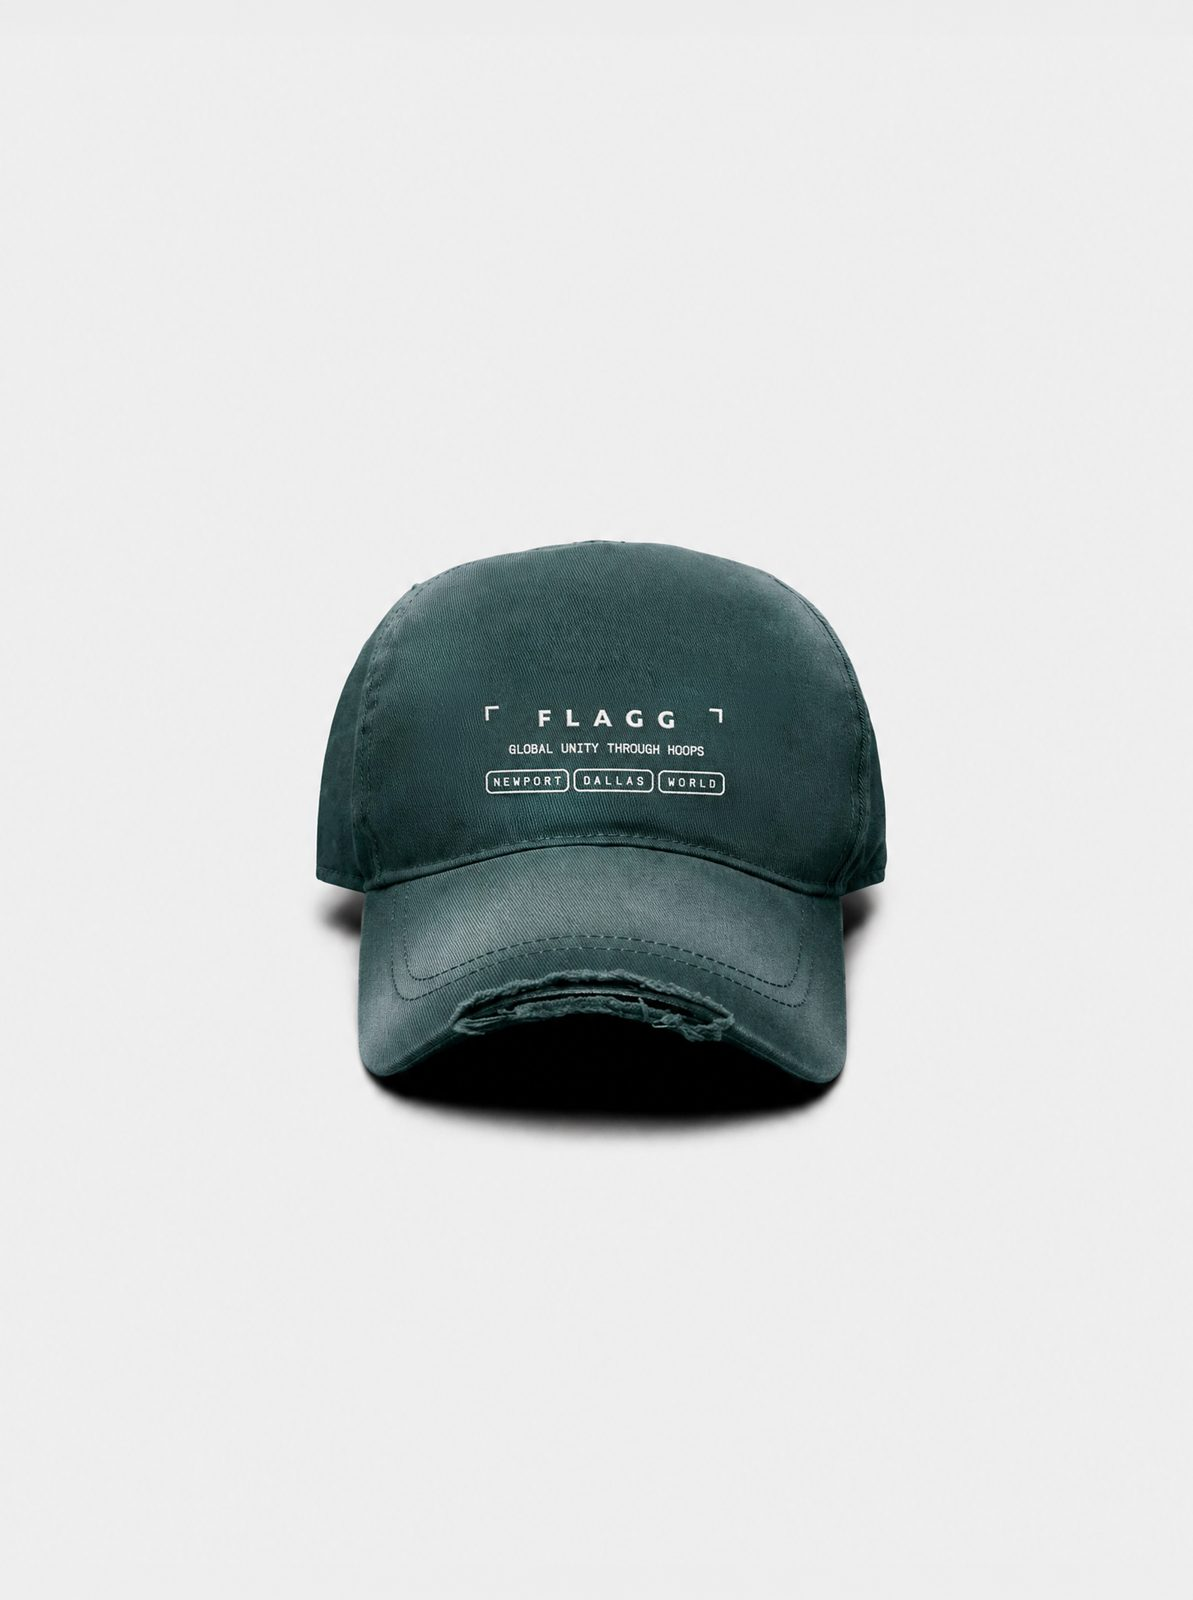
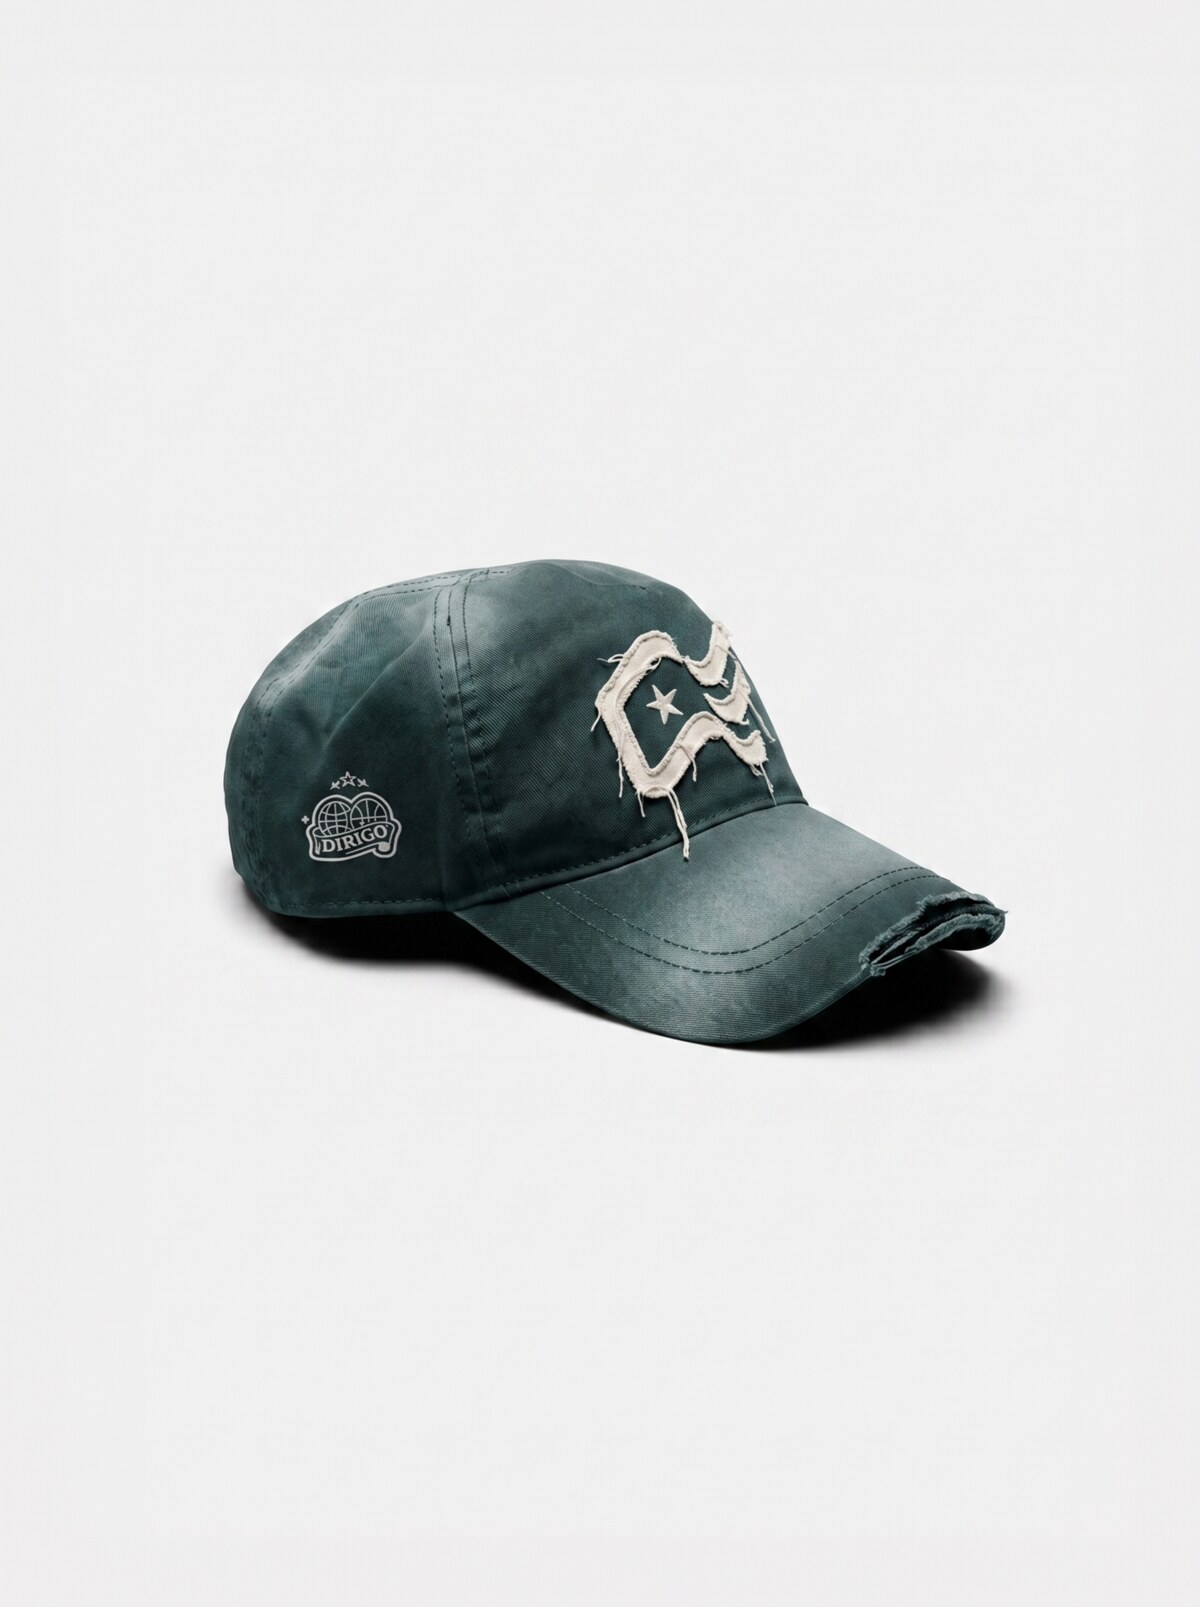
Shop: cap is single green hat (remove orange variant), side view as main image

Changed region(s): [[0.1861, 0.3125, 0.8684, 0.7188]]

diff --git a/shop.html b/shop.html
@@ -490,11 +490,9 @@
         { name:'Sage Maine Way Tee',      color:'Muted Sage',     sw:'#97a085', gallery:['tee-01'] },
         { name:'Off-White Maine Way Tee', color:'Warm Off-White', sw:'#e8e1d3', gallery:['tee-02'] },
       ] },
-    { id:'cap-01', name:'Burnt Maine Green Cap', cat:'Caps', price:60, color:'Burnt Maine Green', sizes:['One Size'], pos:'50% 50%', desc:'Five-panel cotton cap with twin-needle stitching across all panels and a distressed peak. Adjustable back strap.',
-      variants:[
-        { name:'Burnt Maine Green Cap',   color:'Burnt Maine Green',   sw:'#335c5c', gallery:['cap-01','cap-01-2'] },
-        { name:'Burnt Hinkle Orange Cap', color:'Burnt Hinkle Orange', sw:'#b6603a', gallery:['cap-01-hinkle','cap-01-hinkle-2'] },
-      ] },
+    { id:'cap-01', name:'Burnt Maine Green Cap', cat:'Caps', price:60, color:'Burnt Maine Green', sizes:['One Size'], pos:'50% 50%',
+      gallery:['cap-01','cap-01-2'],
+      desc:'Five-panel cotton cap with twin-needle stitching across all panels and a distressed peak. Adjustable back strap.' },
     { id:'anchor-bottle', name:'Anchor Bottle', cat:'Anchor Initiative', price:35, color:'Steel', sizes:['One Size'], initiative:true, pos:'50% 50%',
       gallery:['anchor-bottle','anchor-bottle-2','anchor-bottle-3'],
       desc:'Insulated stainless steel bottle in brand green with the anchor mark. Double-walled to keep drinks cold all day. Part of the Anchor Initiative: 10% of every purchase supports Good Sports.' },